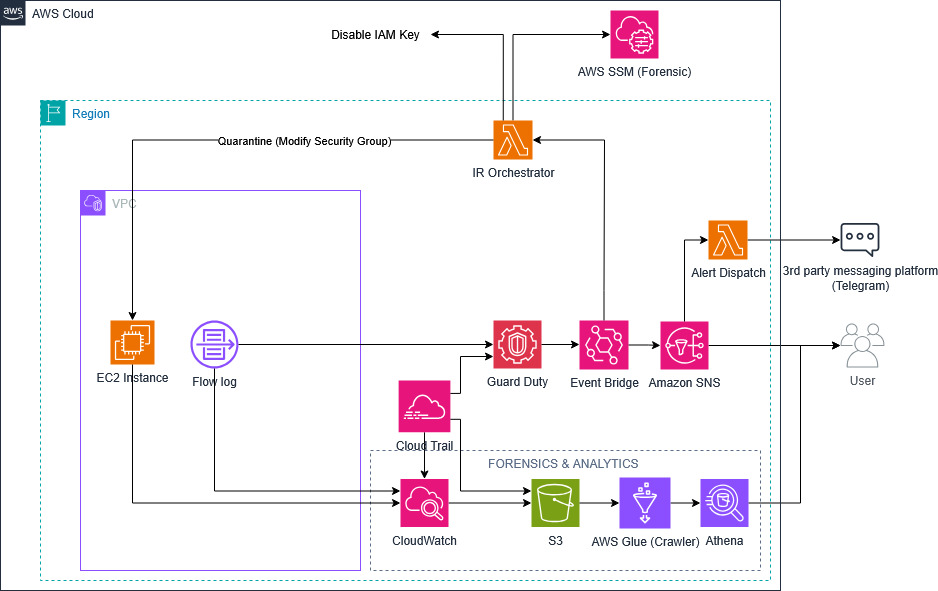
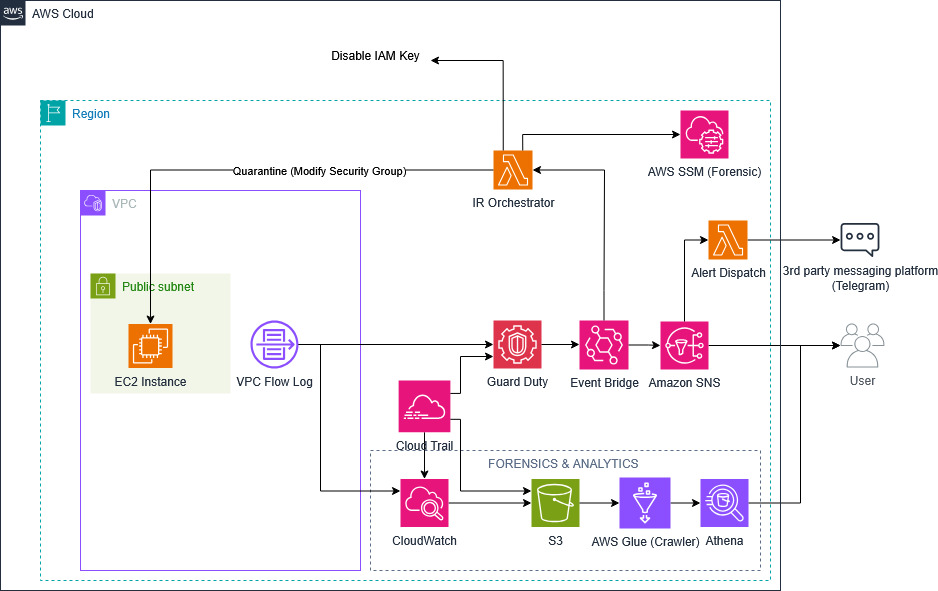
Update diagram, update event

diff --git a/content/1-Worklog/1.3-Week3/_index.md b/content/1-Worklog/1.3-Week3/_index.md
@@ -17,7 +17,7 @@ pre: " <b> 1.3. </b> "
 ### Tasks to be carried out this week:
 | Day | Task                                                                                                                                                                                                   | Start Date | Completion Date | Reference Material                        |
 | --- | ------------------------------------------------------------------------------------------------------------------------------------------------------------------------------------------------------ | ---------- | --------------- | ----------------------------------------- |
-| 2   |- Lab 25: Cannot be done for now, account is on free tier <br> - Upgraded account <br> - Retry lab 25: <br>&emsp; + The given template used runtime nodejs12.x for Lambda functions, which is no longer supported, fixed it by changing it to nodejs20.x <br>&emsp; + Created Fsx file system <br>&emsp; + The S3 bucket endpoint for testing data is only reachable in the US region, so it must be changed to Read-S3Object -BucketName nasanex -KeyPrefix /AVHRR -Folder Z:/nasanex/AVHRR -Region us-west-2 <br>&emsp; + Created file shares <br>&emsp; + Created HDD and SSD Fsx <br>&emsp; + 25.4: The given tool version is outdated, downloaded latest version <br>&emsp; + Successfully tested drive performance with various parameters <br>&emsp; + Monitored performance using CloudWatch: Alarm got triggered, throughput was maxed at  400mb <br>&emsp; + Learnt how to deduplicate file:<br>&emsp;&emsp; • Default dedup schedule is every Saturday <br>&emsp;&emsp; • Initial dedup run optimized nothing due to the default fileAge -> changed to 0 => Optimized half of the files <br>&emsp; + Created shadow copies for backup <br>&emsp; + Learnt how to manage open files and how to close them from the connection <br>&emsp; + Successfully created user quotas to manage storage space <br>&emsp; + Enabled Continuously Available (CA) file share on Amazon FSx to be used by mutiple user at the same time <br>&emsp; + Scaled throughput and storage on AWS Console <br> - Learnt shared responsibility model: Both the provider and the customer have responsibility in security <br> - Module 5-2: Best pratice is to create an admin IAM user rather than using root account <br> - IAM Principal: Access resources in AWS Account <br> - IAM Policy: Identity based and Resource based <br> - IAM Role: A set of rules that control access to resources and services for IAM User <br> - IAM Role can be used to enable cross account <br> - School subject: <br>&emsp; + ENW493c: Completed Understanding Research Methods| 22/09/2025 | 22/09/2025      | [Lab25](https://000025.awsstudygroup.com/1-introduce/) <br><br> [Understanding Research Methods](https://www.coursera.org/account/accomplishments/verify/463JCBE1NHYH)   |
+| 2   |- Lab 25: Cannot be done for now, account is on free tier <br> - Upgraded account to paid tier <br> - Retry lab 25: <br>&emsp; + The given template used runtime nodejs12.x for Lambda functions, which is no longer supported, fixed it by changing it to nodejs20.x <br>&emsp; + Created Fsx file system <br>&emsp; + The S3 bucket endpoint for testing data is only reachable in the US region, so it must be changed to Read-S3Object -BucketName nasanex -KeyPrefix /AVHRR -Folder Z:/nasanex/AVHRR -Region us-west-2 <br>&emsp; + Created file shares <br>&emsp; + Created HDD and SSD Fsx <br>&emsp; + 25.4: The given tool version is outdated, downloaded latest version <br>&emsp; + Successfully tested drive performance with various parameters <br>&emsp; + Monitored performance using CloudWatch: Alarm got triggered, throughput was maxed at  400mb <br>&emsp; + Learnt how to deduplicate file:<br>&emsp;&emsp; • Default dedup schedule is every Saturday <br>&emsp;&emsp; • Initial dedup run optimized nothing due to the default fileAge -> changed to 0 => Optimized half of the files <br>&emsp; + Created shadow copies for backup <br>&emsp; + Learnt how to manage open files and how to close them from the connection <br>&emsp; + Successfully created user quotas to manage storage space <br>&emsp; + Enabled Continuously Available (CA) file share on Amazon FSx to be used by mutiple user at the same time <br>&emsp; + Scaled throughput and storage on AWS Console <br> - Learnt shared responsibility model: Both the provider and the customer have responsibility in security <br> - Module 5-2: Best pratice is to create an admin IAM user rather than using root account <br> - IAM Principal: Access resources in AWS Account <br> - IAM Policy: Identity based and Resource based <br> - IAM Role: A set of rules that control access to resources and services for IAM User <br> - IAM Role can be used to enable cross account <br> - School subject: <br>&emsp; + ENW493c: Completed Understanding Research Methods| 22/09/2025 | 22/09/2025      | [Lab25](https://000025.awsstudygroup.com/1-introduce/) <br><br> [Understanding Research Methods](https://www.coursera.org/account/accomplishments/verify/463JCBE1NHYH)   |
 | 3   | - Module 5: <br>- Amazon Cognito: A authentication, permission and user management service, with two main feature: <br>&emsp; + User pool: A collection of user accounts and authentication informations, allowing for 3rd party authentication services <br>&emsp; + Identity pools: A mapping of permissions and credentials that can be applied to users <br> - AWS Organization: Manage many AWS Accounts and resources <br>&emsp; + Organizes accounts by OU and use Service Control Policies to define permissions for user on the organization <br> AWS Identity Center(SSO): Manage AWS Authorizations and Applications: <br>&emsp; + Utilize permission sets <br> - AWS KMS: Create and manage encryption keys: <br>&emsp; + CMK (Customer Managed Key) is the main resource, used to create, encrypt and decrypt Data Key <br> - AWS Security Hub: Scan and test security based and policies and best practices <br>- Continue with lab 14: <br>&emsp; + Created role and S3 Bucket <br>&emsp; + The latest Ubuntu version (25.04) included unsupported kernel version, required reinstallation to proceed <br>&emsp; + Installing Ubutun 24.04: Failed, its kernel is still unsupported <br>&emsp; + Installing Ubuntu 22.04 <br>&emsp; + Successfully imported VM to AWS <br>&emsp; + Successfully connected to EC2 instance created from the AMI using VM's username and password    | 23/09/2025 | 23/09/2025      | [Lab 14](https://000014.awsstudygroup.com/) |
 | 4   | Continue with lab 14: <br>&emsp; + Created export bucket, configured permission <br>&emsp; + Successfully exported instances into .OVA format for usage <br>- Lab 18: Enabled Security Hub and configured AWS Config to record data for analyzing (It can take a long for a score to be calculated) | 24/09/2025 | 24/09/2025      | [Lab 14](https://000014.awsstudygroup.com/) |
 | 5   | - Lab 22: <br>&emsp; + Created Lambda functions for running and stopping EC2 instance based on schedules and tags <br>&emsp; + Logged notification via Slack <br> - Lab 28:<br>&emsp; + Created IAM policies and role, only allowing access from Singapore Region(ap-southeast-1) <br>&emsp; + Restricted access to EC2 from regions outside of policy <br>&emsp; + Restricted creation of EC2 instances without valid tags <br> Lab 30: Restricted IAM user to only use the specified region to access EC2 <br> - Lab 18 (Update): Security finished scanning, got a security score of 85%, 1 critical exposure: IAM User have administrative access policy <br>- Lab 33: <br>&emsp; + Created Key Management Service <br>&emsp; + Setted up Cloudtrail to log data in S3 Bucket <br>&emsp; + Created Athena to query logs <br>&emsp; + KMS successfully denied access to users without authorization   | 25/09/2025 | 25/09/2025      | [Lab 22](https://000022.awsstudygroup.com/) <br><br> [Lab 28](https://000028.awsstudygroup.com/) <br><br> [Lab 30](https://000030.awsstudygroup.com/) <br><br> [Lab 18](https://000018.awsstudygroup.com/) <br><br> [Lab 33](https://000033.awsstudygroup.com/)  |

diff --git a/content/3-BlogsTranslated/_index.md b/content/3-BlogsTranslated/_index.md
@@ -6,26 +6,18 @@ chapter: false
 pre: " <b> 3. </b> "
 ---
 
-{{% notice warning %}}
-⚠ **Note:** The information below is for reference purposes only. Please **do not copy verbatim** for your own report, including this warning.
-{{% /notice %}}
+###  [Blog 1 - Achieve Excellence in Aftermarket Service with Syncron and AWS](3.1-Blog1/)
 
-This section will list and introduce the blogs you have translated. For example:
+This blog explains how manufacturers can enhance their aftermarket services by implementing the Syncron Service Lifecycle Management (SLM) platform on AWS. You will learn why traditional, isolated operations often lead to inefficiencies and increased costs , and how Syncron’s SLM platform creates a connected business ecosystem by unifying data from parts, service, and warranty management. The article also explores the solution's architecture, which leverages services like Amazon S3 and AWS Glue, and walks through customer use cases such as gaining instant access to data and building custom AI/ML models for price optimization.
 
-###  [Blog 1 - Getting started with healthcare data lakes: Using microservices](3.1-Blog1/)
-This blog introduces how to start building a data lake in the healthcare sector by applying a microservices architecture. You will learn why data lakes are important for storing and analyzing diverse healthcare data (electronic medical records, lab test data, medical IoT devices…), how microservices help make the system more flexible, scalable, and easier to maintain. The article also guides you through the steps to set up the environment, organize the data processing pipeline, and ensure compliance with security & privacy standards such as HIPAA.
+###  [Blog 2 - Amazon Q Developer CLI supports image inputs in your terminal](3.2-Blog2/)
 
-###  [Blog 2 - ...](3.2-Blog2/)
-This blog introduces how to start building a data lake in the healthcare sector by applying a microservices architecture. You will learn why data lakes are important for storing and analyzing diverse healthcare data (electronic medical records, lab test data, medical IoT devices…), how microservices help make the system more flexible, scalable, and easier to maintain. The article also guides you through the steps to set up the environment, organize the data processing pipeline, and ensure compliance with security & privacy standards such as HIPAA.
+This blog introduces the powerful new capability of the Amazon Q Developer CLI to accept and analyze image inputs directly in the terminal. You will learn how this feature bridges the gap between visual design assets and functional code, streamlining development by reducing the manual, error-prone work of translating diagrams into implementation. The article also provides a hands-on guide with several practical use cases, demonstrating how to generate Terraform code from an architecture diagram, create a SQL schema from an ER diagram, transform a hand-drawn sketch into a formal design document, and build UI code from a simple screenshot.
 
-###  [Blog 3 - ...](3.3-Blog3/)
-This blog introduces how to start building a data lake in the healthcare sector by applying a microservices architecture. You will learn why data lakes are important for storing and analyzing diverse healthcare data (electronic medical records, lab test data, medical IoT devices…), how microservices help make the system more flexible, scalable, and easier to maintain. The article also guides you through the steps to set up the environment, organize the data processing pipeline, and ensure compliance with security & privacy standards such as HIPAA.
+###  [Blog 3 - Simulating partial failures with AWS Fault Injection Service](3.3-Blog3/)
+
+This blog details an advanced chaos engineering technique for simulating partial, or localized, system failures using AWS Fault Injection Service (FIS). You will learn why testing for these non-total failures is critical for building truly resilient applications and how traditional fault injection methods often overlook this important scenario. The article also provides a complete, step-by-step walkthrough of the solution, guiding you on how to combine FIS with an Application Load Balancer (ALB) and an AWS Lambda function to inject controlled faults that impact only a percentage of traffic, all without requiring any changes to your application's code.
 
 ###  [Blog 4 - ...](3.4-Blog4/)
-This blog introduces how to start building a data lake in the healthcare sector by applying a microservices architecture. You will learn why data lakes are important for storing and analyzing diverse healthcare data (electronic medical records, lab test data, medical IoT devices…), how microservices help make the system more flexible, scalable, and easier to maintain. The article also guides you through the steps to set up the environment, organize the data processing pipeline, and ensure compliance with security & privacy standards such as HIPAA.
-
 ###  [Blog 5 - ...](3.5-Blog5/)
-This blog introduces how to start building a data lake in the healthcare sector by applying a microservices architecture. You will learn why data lakes are important for storing and analyzing diverse healthcare data (electronic medical records, lab test data, medical IoT devices…), how microservices help make the system more flexible, scalable, and easier to maintain. The article also guides you through the steps to set up the environment, organize the data processing pipeline, and ensure compliance with security & privacy standards such as HIPAA.
-
 ###  [Blog 6 - ...](3.6-Blog6/)
-This blog introduces how to start building a data lake in the healthcare sector by applying a microservices architecture. You will learn why data lakes are important for storing and analyzing diverse healthcare data (electronic medical records, lab test data, medical IoT devices…), how microservices help make the system more flexible, scalable, and easier to maintain. The article also guides you through the steps to set up the environment, organize the data processing pipeline, and ensure compliance with security & privacy standards such as HIPAA.

diff --git a/content/1-Worklog/1.6-Week6/_index.md b/content/1-Worklog/1.6-Week6/_index.md
@@ -14,11 +14,11 @@ pre: " <b> 1.6. </b> "
 | Day | Task                                                                                                                                                                                                   | Start Date | Completion Date | Reference Material                        |
 | --- | ------------------------------------------------------------------------------------------------------------------------------------------------------------------------------------------------------ | ---------- | --------------- | ----------------------------------------- |
 
-| 2   | - Reformmatted and refined worklog, add informations and summaries <br> - Succesfully deployed worklog to Github Page | 08/11/2025 | 08/11/2025||
-| 3   | - Team meeting <br> - Changed workshop proposal: Focusing more on using Guard Duty to detect intrusion activities instead of making own Lambda detection due to requirement of large dataset and long time  <br> - Redrew AWS Architecture: Added Guard Duty replacing CloudWatch Alarm <br> - Wrote a draft of the proposal with basic function and rough cost estimation | 08/12/2025 | 08/12/2025      | <https://cloudjourney.awsstudygroup.com/> |
-| 4   | - Team meeting <br> - Changed workshop proposal: <br> &emsp; + Added the usage of EventBridge <br> &emsp; + Recalculated cost, added  <br> - Updated AWS Architecture: Added EventBridge icon | 08/13/2025 | 08/13/2025      | <https://cloudjourney.awsstudygroup.com/> |
-| 5   | - Learn basic EC2: <br>&emsp; + Instance types <br>&emsp; + AMI <br>&emsp; + EBS <br>&emsp; + ... <br> - SSH connection methods to EC2 <br> - Learn about Elastic IP   <br>                            | 08/14/2025 | 08/15/2025      | <https://cloudjourney.awsstudygroup.com/> |
-| 6   |  | 08/15/2025 | 08/15/2025      | <https://cloudjourney.awsstudygroup.com/> |
+| 2   | - Reformmatted and refined the worklog, adding information and summaries <br> - Succesfully deployed worklog to Github Page | 13/10/2025 | 13/10/2025||
+| 3   | - Team meeting <br> - Revised workshop proposal: Focused on using Guard Duty for intrusion dectection instead of a custom Lambda function due to the need for a large dataset and extensive development time.  <br> - Redrew AWS Architecture: Added Guard Duty replacing CloudWatch Alarm <br> - Wrote a draft of the proposal with outlining basic function and providing a rough cost estimate. | 14/10/2025 | 14/10/2025      | <https://cloudjourney.awsstudygroup.com/> |
+| 4   | - Team meeting <br> - Revised workshop proposal: <br> &emsp; + Incorporated the use of EventBridge <br> &emsp; + Recalculated costs by reducing the EC2 instance type and active hours <br> - Updated AWS Architecture: Include the EventBridge icon and connections | 15/10/2025 | 15/10/2025      | <https://cloudjourney.awsstudygroup.com/> |
+| 5   | - Updated AWS Arhitecture: Rearranged icons for clearer connections. <br> - Translated proposal draft into markdown code and successfully  deployed it to Github Pages | 16/10/2025 | 16/10/2025      | <https://cloudjourney.awsstudygroup.com/> |
+| 6   | | 08/15/2025 | 08/15/2025      | <https://cloudjourney.awsstudygroup.com/> |
 
 
 ### Week 6 Achievements:

diff --git a/content/4-EventParticipated/_index.md b/content/4-EventParticipated/_index.md
@@ -20,9 +20,9 @@ During my internship, I participated in two events. Each one was a memorable exp
 ---
 
 ### [Event 2](4.2-Event2/)  
-&emsp;**Event Name:** GenAI-powered App-DB Modernization workshop  
+&emsp;**Event Name:** AI-Driven Development Life Cycle: Reimagining Software Engineering  
 
-&emsp;**Date & Time:** 09:00, August 13, 2025  
+&emsp;**Date & Time:** 09:00, October 3rd, 2025  
 
 &emsp;**Location:** 26th Floor, Bitexco Tower, 02 Hai Trieu Street, Saigon Ward, Ho Chi Minh City  
 

diff --git a/content/2-Proposal/_index.md b/content/2-Proposal/_index.md
@@ -31,6 +31,7 @@ The proposed solution implements a complete Detection-to-Containment-to-Forensic
 The architecture implements a serverless, event-driven pipeline that covers the entire IR lifecycle.
 
 ![AWS Incident Response and Forensics Architecture](/images/2-Proposal/AWSWorkshopArchitecture.jpg)
+_AWS Incident Response and Forensics Architecture_
 
 #### AWS Services Used
 | Service | Purpose in IR Lifecycle |
